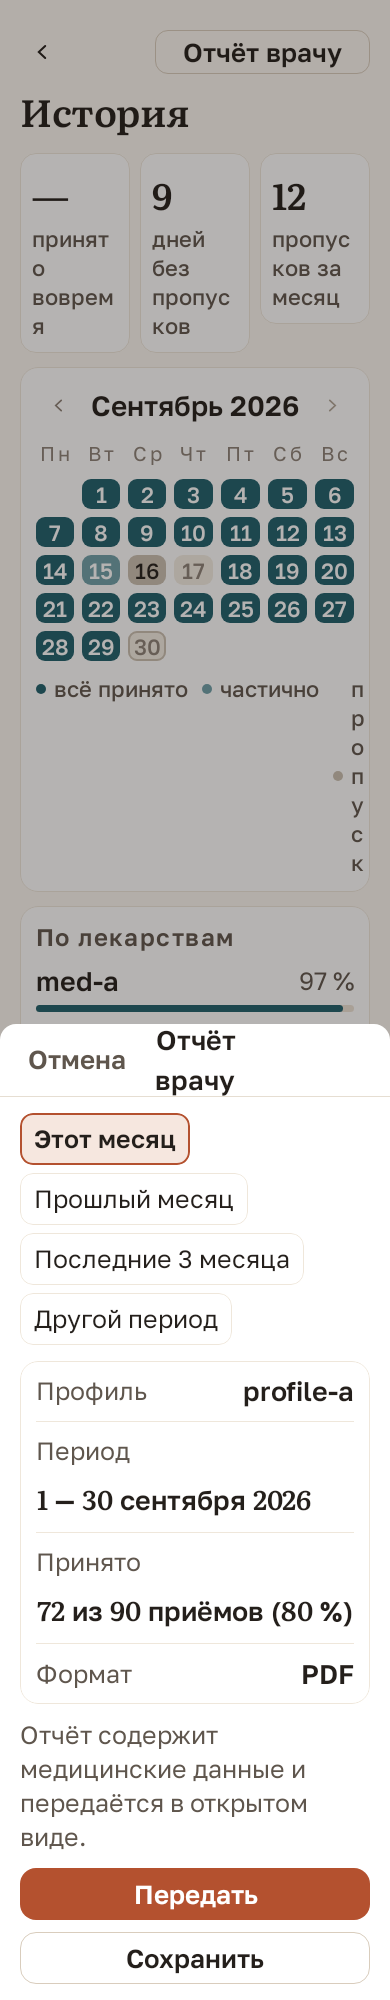
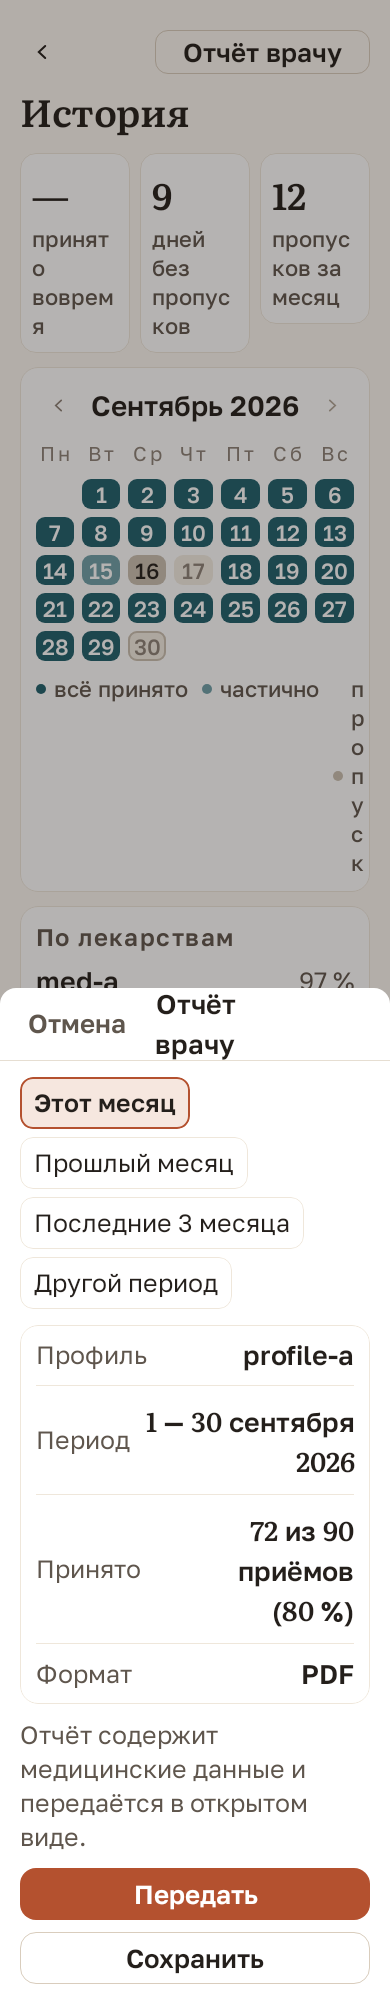
fix(SKL-101): дата в диалоге периода и скачок формы при смене пресета
- диалог даты: `DatePicker` обёрнут в локальную типографику, где `display*`
  и `headlineLarge` — `Headline` с потолком масштаба вместо `Display` (64 sp):
  выбранная дата влезает целиком, год не обрезается, при 200 % не раздувается;
- карточка состава: строки переведены с `StackingRow` на плоский ряд
  (подпись слева, значение `weight(1f)` с переносом в своей колонке) —
  смена длины текста периода больше не меняет высоту строки скачком;
- эталон `history-report-200` перезаписан; TODO задачи: находки 31 (F-8), 32 (F-9).

Целевые тесты `:core-ui`/`:feature-history` зелёные. Общий `verifyAll` красный
из-за незакоммиченной чужой SKL-102 (`@screen` без прогона, ловят SKL-24/26) —
к этим правкам отношения не имеет.

Changed region(s): [[0.0, 0.496, 1.0, 0.837], [0.4, 0.806, 0.4615, 0.837], [0.4923, 0.806, 0.5231, 0.837]]

diff --git a/core-ui/src/main/kotlin/ru/stohastika/sklyanka/ui/component/DateTimePickerDialog.kt b/core-ui/src/main/kotlin/ru/stohastika/sklyanka/ui/component/DateTimePickerDialog.kt
@@ -35,6 +35,7 @@ import androidx.compose.ui.unit.Density
 import androidx.compose.ui.window.Dialog
 import androidx.compose.ui.window.DialogProperties
 import ru.stohastika.sklyanka.ui.R
+import ru.stohastika.sklyanka.ui.modifier.withCappedFontScale
 import ru.stohastika.sklyanka.ui.theme.SklyankaTheme
 import ru.stohastika.sklyanka.ui.token.LiterataTime
 import ru.stohastika.sklyanka.ui.token.SklyankaShapes
@@ -248,29 +249,54 @@ fun DateTimePickerDialog(
         onConfirm = { if (selected != null) onConfirm(selected.toLocalDateUtc()) },
         modifier = modifier,
     ) {
-        DatePicker(
-            state = state,
-            modifier = Modifier.testTag(TAG_DATE_PICKER),
-            colors = DatePickerDefaults.colors(
-                containerColor = colors.surface,
-                titleContentColor = colors.text,
-                headlineContentColor = colors.accent,
-                weekdayContentColor = colors.textMuted,
-                subheadContentColor = colors.text,
-                navigationContentColor = colors.text,
-                yearContentColor = colors.text,
-                currentYearContentColor = colors.accent,
-                selectedYearContentColor = colors.surface,
-                selectedYearContainerColor = colors.accent,
-                dayContentColor = colors.text,
-                selectedDayContentColor = colors.surface,
-                selectedDayContainerColor = colors.accent,
-                todayContentColor = colors.accent,
-                todayDateBorderColor = colors.accent,
-                dividerColor = colors.lineOnSurface,
-            ),
-        )
+        // Заголовок выбранной даты M3 набирает ролью `headlineLarge`, а мост темы
+        // отдаёт её `Display` (64 sp): дата не помещалась и год обрезался
+        // (SKL-101, дефект заказчика). Локальная типографика берёт `Headline`
+        // с потолком масштаба — как цифры тайм-пикера (ОВ-119).
+        MaterialTheme(typography = datePickerTypography()) {
+            DatePicker(
+                state = state,
+                modifier = Modifier.testTag(TAG_DATE_PICKER),
+                colors = DatePickerDefaults.colors(
+                    containerColor = colors.surface,
+                    titleContentColor = colors.text,
+                    headlineContentColor = colors.accent,
+                    weekdayContentColor = colors.textMuted,
+                    subheadContentColor = colors.text,
+                    navigationContentColor = colors.text,
+                    yearContentColor = colors.text,
+                    currentYearContentColor = colors.accent,
+                    selectedYearContentColor = colors.surface,
+                    selectedYearContainerColor = colors.accent,
+                    dayContentColor = colors.text,
+                    selectedDayContentColor = colors.surface,
+                    selectedDayContainerColor = colors.accent,
+                    todayContentColor = colors.accent,
+                    todayDateBorderColor = colors.accent,
+                    dividerColor = colors.lineOnSurface,
+                ),
+            )
+        }
     }
+}
+
+/**
+ * Типографика механизма даты (SKL-101).
+ *
+ * Выбранную дату M3 набирает ролью `headlineLarge`, а мост темы отдаёт её `Display`
+ * (64 sp) — двухстрочная дата не помещалась в заголовок и год обрезался. Здесь та же
+ * роль получает `Headline` с потолком масштаба: дата читается заголовком, но влезает
+ * целиком и не раздувается при системном шрифте 200 % (как цифры тайм-пикера, ОВ-119).
+ */
+@Composable
+private fun datePickerTypography(): Typography {
+    val headline = SklyankaType.Headline.withCappedFontScale()
+    return MaterialTheme.typography.copy(
+        displayLarge = headline,
+        displayMedium = headline,
+        displaySmall = headline,
+        headlineLarge = headline,
+    )
 }
 
 /** Тег оболочки: экранная проверка отличает диалог приложения от системного (SKL-69). */

diff --git a/feature-history/src/main/kotlin/ru/stohastika/sklyanka/feature/history/DoctorReportSheet.kt b/feature-history/src/main/kotlin/ru/stohastika/sklyanka/feature/history/DoctorReportSheet.kt
@@ -17,6 +17,7 @@ import androidx.compose.foundation.layout.fillMaxWidth
 import androidx.compose.foundation.layout.height
 import androidx.compose.foundation.layout.heightIn
 import androidx.compose.foundation.layout.padding
+import androidx.compose.foundation.layout.width
 import androidx.compose.foundation.rememberScrollState
 import androidx.compose.foundation.verticalScroll
 import androidx.compose.material3.Text
@@ -56,7 +57,6 @@ import ru.stohastika.sklyanka.ui.component.SecondaryButton
 import ru.stohastika.sklyanka.ui.component.SklyankaBottomSheet
 import ru.stohastika.sklyanka.ui.component.SklyankaChip
 import ru.stohastika.sklyanka.ui.component.StackingEqualButtons
-import ru.stohastika.sklyanka.ui.component.StackingRow
 import ru.stohastika.sklyanka.ui.theme.SklyankaTheme
 import ru.stohastika.sklyanka.ui.token.SklyankaMotion
 import ru.stohastika.sklyanka.ui.token.SklyankaShapes
@@ -297,31 +297,32 @@ private fun CompositionRow(
     numbersInLiterata: Boolean = false,
 ) {
     val colors = SklyankaTheme.colors
-    StackingRow(
-        leading = {},
-        text = {
-            Text(text = label, style = SklyankaType.Caption, color = colors.textMuted)
-        },
-        action = {
-            Row(verticalAlignment = Alignment.CenterVertically) {
-                Text(
-                    text = if (numbersInLiterata) numberedValue(value) else AnnotatedString(value),
-                    style = SklyankaType.BodyDefaultStrong,
-                    color = colors.text,
-                    textAlign = TextAlign.End,
-                )
-                if (onValueClick != null) {
-                    ChevronGlyph(color = colors.textTertiary, pointsLeft = false, size = SklyankaSizes.Chevron)
-                }
-            }
-        },
-        gap = SklyankaSpacing.Medium,
-        minTextWidth = SklyankaSizes.MinTextColumn,
+    Row(
         modifier = Modifier
+            .fillMaxWidth()
             .then(if (onValueClick == null) Modifier else Modifier.clickable(onClick = onValueClick))
             .padding(vertical = SklyankaSpacing.Large)
             .testTag(testTag),
-    )
+        verticalAlignment = Alignment.CenterVertically,
+    ) {
+        Text(text = label, style = SklyankaType.Caption, color = colors.textMuted)
+        Spacer(modifier = Modifier.width(SklyankaSpacing.Medium))
+        // Значение занимает остаток строки и переносится внутри своей колонки.
+        // `StackingRow` здесь не годится: при нехватке ширины он уносил значение
+        // под подпись, и смена длины периода (пресеты) скачком меняла высоту
+        // карточки и всей шторки (SKL-101, дефект «скачет форма»).
+        Text(
+            text = if (numbersInLiterata) numberedValue(value) else AnnotatedString(value),
+            style = SklyankaType.BodyDefaultStrong,
+            color = colors.text,
+            textAlign = TextAlign.End,
+            modifier = Modifier.weight(1f),
+        )
+        if (onValueClick != null) {
+            Spacer(modifier = Modifier.width(SklyankaSpacing.Small))
+            ChevronGlyph(color = colors.textTertiary, pointsLeft = false, size = SklyankaSizes.Chevron)
+        }
+    }
 }
 
 /**
